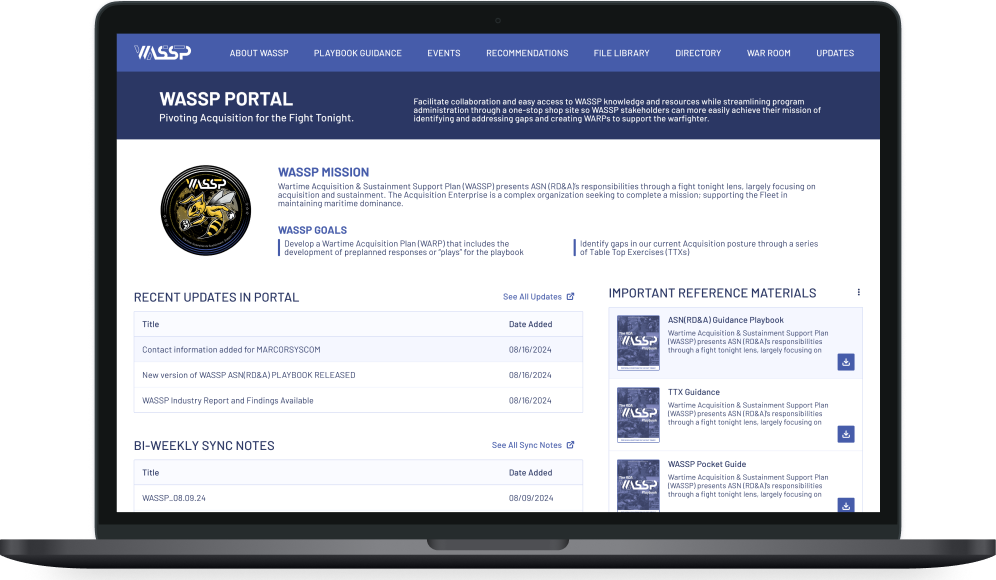
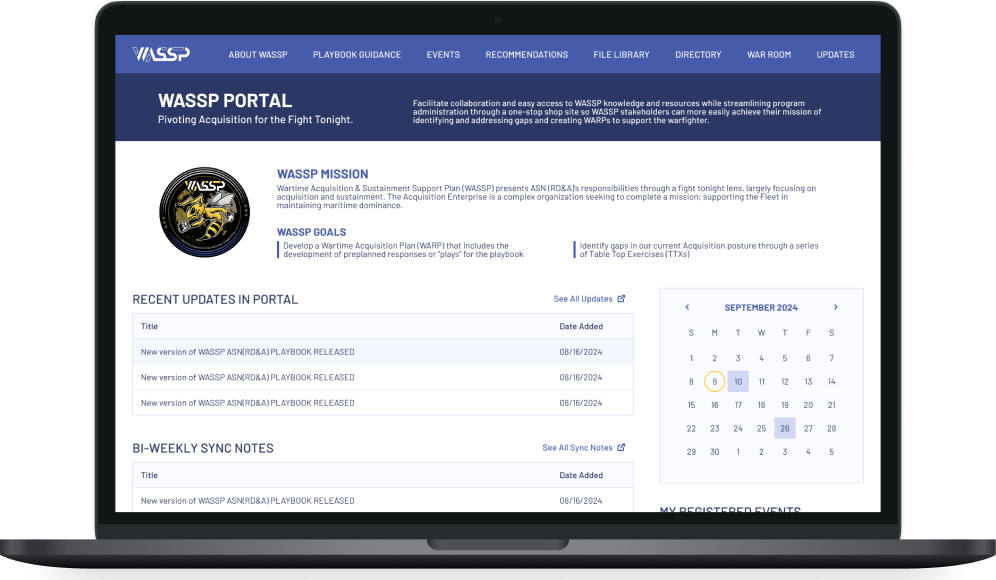
Reordering of case studies

diff --git a/index.html b/index.html
@@ -73,20 +73,7 @@
                 </div>
             </a>
 
-            <!-- Project 2 - WASSP -->
-            <a href="wassp-war-room.html" class="work__card" style="--card-accent: var(--clr-project-war-room);">
-                <div class="work__card-image">
-                    <img src="img/case-studies/wassp/wassp-card.jpg" alt="">
-                    <img src="img/case-studies/wassp/wassp-mockup.png" alt="" class="work__card-mockup">
-                </div>
-                <div class="work__card-content">
-                    <h3 class="work__card-title">Building an Immersive Decision-Making Environment</h3>
-                    <p class="work__card-subtitle">Designed an intentionally analog space that helped senior Navy leadership make sense of complexity and act decisively.</p>
-                    <button class="btn btn--card">View Work</button>
-                </div>
-            </a>
-
-            <!-- Project 3 - Portal -->
+            <!-- Project 2 - Portal -->
             <a href="portal.html" class="work__card" style="--card-accent: var(--clr-project-portal);">
                 <div class="work__card-image">
                     <img src="img/case-studies/portal/portal-card.jpg" alt="">
@@ -95,6 +82,19 @@
                 <div class="work__card-content">
                     <h3 class="work__card-title">Surfacing Insights and Recommendations for Wartime Readiness</h3>
                     <p class="work__card-subtitle">Directed discovery and design for an MVP knowledge management platform unifying siloed information across 30+ Navy acquisition organizations.</p>
+                    <button class="btn btn--card">View Work</button>
+                </div>
+            </a>
+
+            <!-- Project 3 - WASSP -->
+            <a href="wassp-war-room.html" class="work__card" style="--card-accent: var(--clr-project-war-room);">
+                <div class="work__card-image">
+                    <img src="img/case-studies/wassp/wassp-card.jpg" alt="">
+                    <img src="img/case-studies/wassp/wassp-mockup.png" alt="" class="work__card-mockup">
+                </div>
+                <div class="work__card-content">
+                    <h3 class="work__card-title">Building an Immersive Decision-Making Environment</h3>
+                    <p class="work__card-subtitle">Designed an intentionally analog space that helped senior Navy leadership make sense of complexity and act decisively.</p>
                     <button class="btn btn--card">View Work</button>
                 </div>
             </a>

diff --git a/work.html b/work.html
@@ -51,20 +51,7 @@
                 </div>
             </a>
 
-            <!-- Project 2 - WASSP -->
-            <a href="wassp-war-room.html" class="work__card" style="--card-accent: var(--clr-project-war-room);">
-                <div class="work__card-image">
-                    <img src="img/case-studies/wassp/wassp-card.jpg" alt="">
-                    <img src="img/case-studies/wassp/wassp-mockup.png" alt="" class="work__card-mockup">
-                </div>
-                <div class="work__card-content">
-                    <h3 class="work__card-title">Building an Immersive Decision-Making Environment</h3>
-                    <p class="work__card-subtitle">Designed an intentionally analog space that helped senior Navy leadership make sense of complexity and act decisively.</p>
-                    <button class="btn btn--card">View Work</button>
-                </div>
-            </a>
-
-            <!-- Project 3 - Portal -->
+            <!-- Project 2 - Portal -->
             <a href="portal.html" class="work__card" style="--card-accent: var(--clr-project-portal);">
                 <div class="work__card-image">
                     <img src="img/case-studies/portal/portal-card.jpg" alt="">
@@ -73,6 +60,19 @@
                 <div class="work__card-content">
                     <h3 class="work__card-title">Surfacing Insights and Recommendations for Wartime Readiness</h3>
                     <p class="work__card-subtitle">Directed discovery and design for an MVP knowledge management platform unifying siloed information across 30+ Navy acquisition organizations.</p>
+                    <button class="btn btn--card">View Work</button>
+                </div>
+            </a>
+
+            <!-- Project 3 - WASSP -->
+            <a href="wassp-war-room.html" class="work__card" style="--card-accent: var(--clr-project-war-room);">
+                <div class="work__card-image">
+                    <img src="img/case-studies/wassp/wassp-card.jpg" alt="">
+                    <img src="img/case-studies/wassp/wassp-mockup.png" alt="" class="work__card-mockup">
+                </div>
+                <div class="work__card-content">
+                    <h3 class="work__card-title">Building an Immersive Decision-Making Environment</h3>
+                    <p class="work__card-subtitle">Designed an intentionally analog space that helped senior Navy leadership make sense of complexity and act decisively.</p>
                     <button class="btn btn--card">View Work</button>
                 </div>
             </a>
